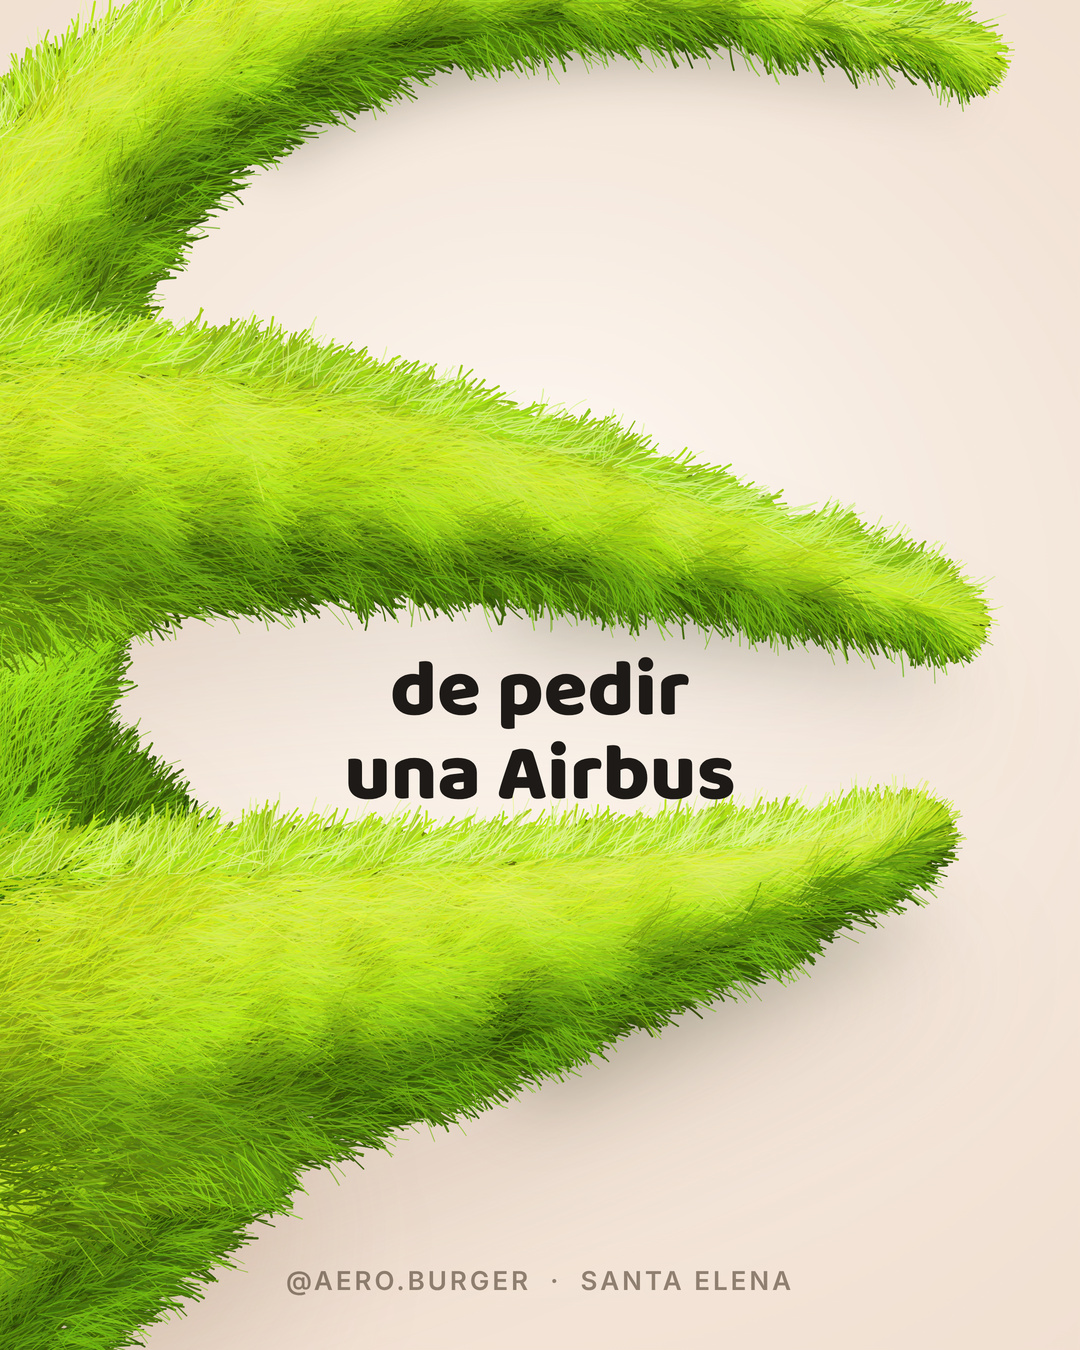
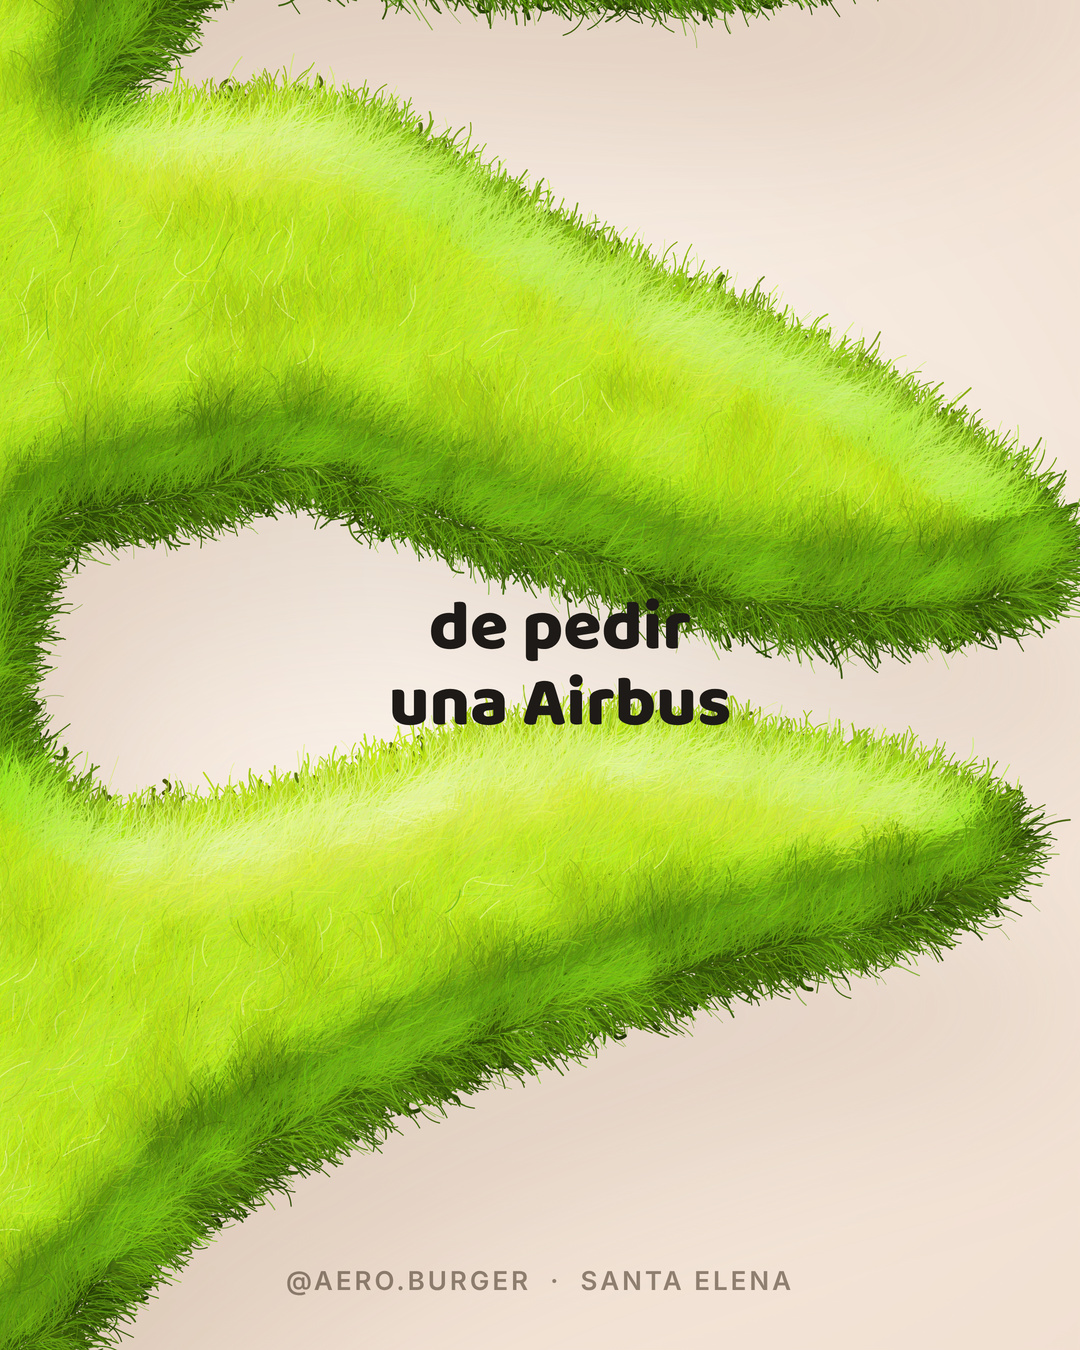
Estoy a esto: forma de la mano medida de la referencia (silueta), pelo y luz propios
Claude-Session: https://claude.ai/code/session_0158hRDxJUWYBKWghtQE4Xqy

diff --git a/aeroburger/12-estoy-a-esto/src/hand3.html b/aeroburger/12-estoy-a-esto/src/hand3.html
@@ -1,0 +1,117 @@
+<!doctype html>
+<html lang="es">
+<head>
+<meta charset="utf-8">
+<title>Aero Burger — Estoy a esto de pedir una Airbus (forma medida de la referencia)</title>
+<style>
+@font-face{font-family:'CaveatBrush';src:url('../assets/CaveatBrush.woff')}
+@font-face{font-family:'Baloo';src:url('../assets/Baloo2-800.woff');font-weight:800}
+html,body{margin:0;background:#F6EADF;overflow:hidden}canvas{display:block;width:1080px;height:1350px}
+</style>
+</head>
+<body>
+<canvas id="c"></canvas>
+<script>
+/* =========================================================================
+   «Estoy a esto de pedir una Airbus» · mano peluda con la FORMA medida de la referencia
+   Las siluetas (mano verde, puño blanco, manga roja) salen de src/measure_reference.py como mapas (máscara, normales,
+   flujo del pelo, espesor, borde difuso). El pelo, la luz y los colores son propios: 3 capas de trazos con luz de
+   arriba-izquierda, luz de borde (translucidez), mechones y sombras de contacto.
+   ?s=1 mano completa + «Estoy a esto» · ?s=2 acercamiento a los dedos · ?ss=2 supermuestreo · ?q=1 densidad
+   ========================================================================= */
+const W=1080, H=1350, OFFY=15, QS=new URLSearchParams(location.search);
+const SLIDE=QS.get('s')||'1', SS=parseFloat(QS.get('ss')||'2'), QUAL=parseFloat(QS.get('q')||'1');
+const Z = SLIDE==='2' ? {k:3.0, cx:650, cy:525} : {k:1, cx:540, cy:675};
+const BG='#F6EADF', RED='#C1121F', INK='#1d1a17';
+const canvas=document.getElementById('c'); canvas.width=W*SS; canvas.height=H*SS; const ctx=canvas.getContext('2d');
+function rng(seed){ let a=seed>>>0; return ()=>{ a|=0; a=a+0x6D2B79F5|0; let t=Math.imul(a^a>>>15,1|a); t=t+Math.imul(t^t>>>7,61|t)^t; return ((t^t>>>14)>>>0)/4294967296; }; }
+const R=rng(20261127), rnd=(a,b)=>a+(b-a)*R(), gauss=()=>{ let s=0; for(let i=0;i<4;i++) s+=R(); return (s-2)/0.577; };
+const lerp=(a,b,t)=>a+(b-a)*t, clamp=(x,a,b)=>Math.min(b,Math.max(a,x)), sstep=(a,b,x)=>{ const t=clamp((x-a)/(b-a),0,1); return t*t*(3-2*t); };
+const NZ=new Float32Array(1024); for(let i=0;i<1024;i++) NZ[i]=R()*2-1;
+function vnoise(x,y){ const xi=Math.floor(x), yi=Math.floor(y), xf=x-xi, yf=y-yi, h=(a,b)=>NZ[((a*73856093)^(b*19349663))&1023], sx=xf*xf*(3-2*xf), sy=yf*yf*(3-2*yf);
+  return lerp(lerp(h(xi,yi),h(xi+1,yi),sx),lerp(h(xi,yi+1),h(xi+1,yi+1),sx),sy); }
+const LV=(()=>{ const l=Math.hypot(-0.40,-0.62,0.68); return [-0.40/l,-0.62/l,0.68/l]; })();
+const DET=Math.min(Z.k,2.4);
+function visible(x,y,m=70){ return Math.abs(x-Z.cx)<540/Z.k+m && Math.abs(y-Z.cy)<675/Z.k+m; }
+
+// ---------- mapas de forma
+function loadMap(src){ return new Promise(res=>{ const im=new Image(); im.onload=()=>{ const c=document.createElement('canvas'); c.width=im.width; c.height=im.height; const x=c.getContext('2d'); x.drawImage(im,0,0); res({img:im,w:im.width,h:im.height,d:x.getImageData(0,0,im.width,im.height).data}); }; im.src=src; }); }
+function samp(m,x,y,ch){ const X=x, Y=y-OFFY; if(X<0||Y<0||X>=m.w-1||Y>=m.h-1) return 0; const x0=Math.floor(X), y0=Math.floor(Y), fx=X-x0, fy=Y-y0, i=(y0*m.w+x0)*4+ch, s=m.w*4;
+  return (m.d[i]*(1-fx)*(1-fy)+m.d[i+4]*fx*(1-fy)+m.d[i+s]*(1-fx)*fy+m.d[i+s+4]*fx*fy)/255; }
+async function loadPart(name){ const P={name}; for(const k of ['mask','fuzz','thick','nrm','flow']) P[k]=await loadMap(`../assets/${name}_${k}.png`);
+  let n=0,x0=1e9,y0=1e9,x1=-1,y1=-1; const m=P.mask; for(let y=0;y<m.h;y++) for(let x=0;x<m.w;x++) if(m.d[(y*m.w+x)*4]>127){ n++; if(x<x0)x0=x; if(x>x1)x1=x; if(y<y0)y0=y; if(y>y1)y1=y; }
+  const ac=document.createElement('canvas'); ac.width=m.w; ac.height=m.h; const ax=ac.getContext('2d'), id=ax.createImageData(m.w,m.h); for(let i=0;i<m.w*m.h;i++){ id.data[i*4]=id.data[i*4+1]=id.data[i*4+2]=255; id.data[i*4+3]=m.d[i*4]; } ax.putImageData(id,0,0); P.alpha=ac;   // máscara como canal alfa
+  P.area=n; P.bbox=[x0-14,y0+OFFY-14,x1+14,y1+OFFY+14]; return P; }
+
+// ---------- lotes de trazos (un solo stroke por cubeta de color)
+const batches=new Map();
+function q(layer,x,y,ang,len,wid,L,Hh,Sat,alpha,curve){
+  const Lq=Math.round(clamp(L,4,98)*0.6), Hq=Math.round(Hh/2), Sq=Math.round(Sat/6), Wq=Math.round(wid*5), Aq=Math.round(alpha*4); const key=layer+'|'+Lq+'|'+Hq+'|'+Sq+'|'+Wq+'|'+Aq;
+  let b=batches.get(key); if(!b){ b={style:`hsl(${Hq*2} ${Sq*6}% ${Lq/0.6}%)`,w:Wq/5,a:Aq/4,path:new Path2D()}; batches.set(key,b); }
+  const ca=Math.cos(ang), sa=Math.sin(ang); b.path.moveTo(x,y); b.path.quadraticCurveTo(x+ca*len*0.5-sa*curve,y+sa*len*0.5+ca*curve,x+ca*len,y+sa*len); }
+function flush(){ ctx.lineCap='round'; for(const b of batches.values()){ ctx.strokeStyle=b.style; ctx.lineWidth=b.w; ctx.globalAlpha=b.a; ctx.stroke(b.path); } ctx.globalAlpha=1; batches.clear(); }
+const oc=document.createElement('canvas'); oc.width=W; oc.height=H; const ox=oc.getContext('2d');
+function silhouette(P,col){ ox.globalCompositeOperation='source-over'; ox.clearRect(0,0,W,H); ox.fillStyle=col; ox.fillRect(0,0,W,H); ox.globalCompositeOperation='destination-in'; ox.drawImage(P.alpha,0,OFFY); ctx.drawImage(oc,0,0); }
+function shadow(P,dx,dy,blur,col){ ox.globalCompositeOperation='source-over'; ox.clearRect(0,0,W,H); ox.fillStyle=col; ox.fillRect(0,0,W,H); ox.globalCompositeOperation='destination-in'; ox.drawImage(P.alpha,0,OFFY);
+  ctx.save(); ctx.filter=`blur(${blur*SS*Z.k}px)`; ctx.drawImage(oc,dx,dy); ctx.restore(); }
+
+// ---------- pelo de una pieza
+const PAL={ green:{h0:86,h1:68,s:80,l0:16,l1:50,rim:12}, white:{h0:36,h1:34,s:16,l0:62,l1:97,rim:3}, red:{h0:355,h1:352,s:80,l0:19,l1:46,rim:8} };
+function angMix(a,b,t){ let d=Math.atan2(Math.sin(b-a),Math.cos(b-a)); return a+d*t; }
+function furPart(P,dens,cols,o={}){
+  const pal=PAL[cols], lm=o.lenMul||1, layers=[['u',0.20,[2.4,3.4],[9,15],0.88],['m',0.80,[0.8,1.4],[15,27],1],['h',0.22,[0.5,0.85],[19,34],0.8]];
+  const [bx0,by0,bx1,by1]=P.bbox;
+  for(const [name,d,wr,lr,alpha] of layers){
+    const N=Math.round(dens*d*P.area*DET*DET*QUAL); let made=0, tries=0;
+    while(made<N && tries<N*6){ tries++;
+      const x=rnd(bx0,bx1), y=rnd(by0,by1); if(!visible(x,y)) continue;
+      const fz=samp(P.fuzz,x,y,0); if(R()>Math.pow(fz,1.5)) continue; made++;
+      const mk=samp(P.mask,x,y,0), nx=samp(P.nrm,x,y,0)*2-1, ny=samp(P.nrm,x,y,1)*2-1, nz=samp(P.nrm,x,y,2)*2-1;
+      const fxv=samp(P.flow,x,y,0)*2-1, fyv=samp(P.flow,x,y,1)*2-1, T=samp(P.thick,x,y,0);
+      const cl=vnoise(x/15,y/15), cl2=vnoise(x/6+40,y/6);
+      let ang=Math.atan2(fyv,fxv)+gauss()*0.38+cl*0.6;
+      if(mk<0.8) ang=angMix(ang,Math.atan2(ny,nx)+gauss()*0.3,(0.8-mk)*0.95);           // en el borde el pelo sale hacia afuera
+      const diff=clamp(nx*LV[0]+ny*LV[1]+nz*LV[2],0,1)*0.88+0.12, ao=(o.ao??0.22)*(1-sstep(0.22,0.75,T));
+      const len=rnd(lr[0],lr[1])*lm/DET, wid=rnd(wr[0],wr[1])/DET;
+      let L=lerp(pal.l0,pal.l1,diff*(1-ao))+cl*4+cl2*1.8+gauss()*2.2;
+      if(o.fold) L*=o.fold(x,y);
+      if(name==='u') L=lerp(pal.l0*0.8,pal.l1*0.45,diff)*(1-ao*0.9)+cl*1.5;
+      if(name==='h') L+=10+pal.rim*Math.pow(1-nz,2)*(nx*LV[0]+ny*LV[1]>0?1.4:0.5);
+      L+=pal.rim*Math.pow(1-nz,2.4)*(nx*LV[0]+ny*LV[1]>0?1:0.25);
+      q(name,x,y,ang,len,wid,L,lerp(pal.h0,pal.h1,diff)+gauss()*2,pal.s+gauss()*4,alpha,gauss()*6/DET);
+    }
+    if(name!=='h') flush();
+  }
+  flush();
+}
+
+// ---------- textos
+function handText(str,x,y,size,col,rot=0){ ctx.save(); ctx.translate(x,y); ctx.rotate(rot); ctx.font=`${size}px CaveatBrush`; ctx.textAlign='center'; ctx.fillStyle=col; ctx.fillText(str,0,0); ctx.restore(); }
+function arrow(){ ctx.save(); ctx.strokeStyle=RED; ctx.lineWidth=6.5; ctx.lineCap='round'; ctx.lineJoin='round';
+  ctx.beginPath(); ctx.moveTo(838,757); ctx.bezierCurveTo(884,721,872,661,818,623); ctx.stroke();
+  ctx.beginPath(); ctx.moveTo(822,665); ctx.lineTo(814,619); ctx.lineTo(858,637); ctx.stroke();
+  for(const [a,b,c,d] of [[430,812,460,830],[436,862,468,872],[1008,764,1030,736],[1034,796,1066,788]]){ ctx.beginPath(); ctx.moveTo(a,b); ctx.lineTo(c,d); ctx.stroke(); } ctx.restore(); }
+
+async function draw(){
+  await Promise.all([document.fonts.load('80px CaveatBrush'),document.fonts.load('800 80px Baloo')]);
+  const [hand,cuff,sleeve]=await Promise.all([loadPart('hand'),loadPart('cuff'),loadPart('sleeve')]);
+  ctx.setTransform(SS,0,0,SS,0,0); ctx.fillStyle=BG; ctx.fillRect(0,0,W,H);
+  const vg=ctx.createRadialGradient(540,560,160,540,675,1050); vg.addColorStop(0,'rgba(255,250,244,.65)'); vg.addColorStop(1,'rgba(226,198,176,.30)'); ctx.fillStyle=vg; ctx.fillRect(0,0,W,H);
+  ctx.save(); ctx.translate(540-Z.cx*Z.k,675-Z.cy*Z.k); ctx.scale(Z.k,Z.k);
+  shadow(hand,26,50,28,'rgba(120,80,50,.15)'); shadow(cuff,18,34,24,'rgba(120,80,50,.12)');
+  silhouette(sleeve,'#6d0610');   // base oscura de la manga
+  furPart(sleeve,0.55,'red',{fold:(x,y)=>0.55+0.45*(0.5+0.5*Math.sin((x*0.9-y*0.35)/38)),lenMul:0.9});
+  shadow(cuff,10,18,14,'rgba(40,0,6,.5)');
+  furPart(hand,0.64,'green');
+  shadow(cuff,8,14,14,'rgba(35,52,0,.42)');
+  furPart(cuff,0.62,'white',{lenMul:1.25,ao:0.14});
+  if(SLIDE==='1'){ arrow(); handText('Estoy a esto',770,851,122,RED,-0.03);
+    ctx.save(); ctx.fillStyle=INK; ctx.font='800 17px Baloo'; ctx.textAlign='center'; ctx.fillText('de pedir una',664,531); ctx.fillText('Airbus',664,548); ctx.restore(); ctx.restore();
+  } else { ctx.restore(); ctx.save(); ctx.setTransform(SS,0,0,SS,0,0); ctx.fillStyle=INK; ctx.font='800 70px Baloo'; ctx.textAlign='center'; ctx.fillText('de pedir',560,648); ctx.fillText('una Airbus',560,724);
+    ctx.font='600 26px Inter'; ctx.fillStyle='rgba(60,45,30,.55)'; ctx.letterSpacing='3px'; ctx.fillText('@AERO.BURGER  ·  SANTA ELENA',540,1290); ctx.restore(); }
+  return true;
+}
+window.ready=draw();
+</script>
+</body>
+</html>

diff --git a/aeroburger/12-estoy-a-esto/src/measure_reference.py b/aeroburger/12-estoy-a-esto/src/measure_reference.py
@@ -1,0 +1,52 @@
+"""Mide la FORMA de la referencia (captura de la lámina 1) y exporta, por pieza (mano verde, puño blanco, manga roja),
+mapas para el render: máscara, normales (de la máscara suavizada), flujo del pelo (a lo largo de los dedos), espesor y borde difuso.
+Solo se usa la silueta; el pelo, la luz y los colores los pinta hand3.html.   Uso: python measure_reference.py captura.jpg"""
+import sys, numpy as np
+from PIL import Image, ImageFilter
+Y0, Y1 = 285, 1605
+a = np.asarray(Image.open(sys.argv[1]).convert('RGB')).astype(np.float32)[Y0:Y1]; H, W, _ = a.shape
+r, g, b = a[..., 0], a[..., 1], a[..., 2]; mx = a.max(2); sat = (mx - a.min(2)) / (mx + 1e-6)
+def blur(arr, s):
+    im = Image.fromarray((np.clip(arr, 0, 1) * 255).astype(np.uint8)); return np.asarray(im.filter(ImageFilter.GaussianBlur(s))).astype(np.float32) / 255
+def largest(mask):
+    lab = np.zeros(mask.shape, np.int32); n = 0; sizes = {}
+    for y0 in range(H):
+        for x0 in range(W):
+            if mask[y0, x0] and lab[y0, x0] == 0:
+                n += 1; st = [(y0, x0)]; lab[y0, x0] = n; c = 0
+                while st:
+                    y, x = st.pop(); c += 1
+                    for dy, dx in ((1,0),(-1,0),(0,1),(0,-1)):
+                        yy, xx = y + dy, x + dx
+                        if 0 <= yy < H and 0 <= xx < W and mask[yy, xx] and lab[yy, xx] == 0: lab[yy, xx] = n; st.append((yy, xx))
+                sizes[n] = c
+    return lab == max(sizes, key=sizes.get)
+def close(m, s=4): return blur((blur(m.astype(np.float32), s) > 0.3).astype(np.float32), s) > 0.5
+green = (g > r * 0.92) & (g > b * 1.5) & (sat > 0.38) & (mx > 55)
+hand = close(largest(green), 5)
+red = (r > 95) & (g < 90) & (b < 90) & (r > g * 1.8); sleeve = largest(close(red, 6))
+bgc = np.array([241, 227, 219.]); d = np.sqrt(((a - bgc) ** 2).sum(2))
+box = np.zeros((H, W), bool); box[520:1320, 0:530] = True
+cuff = close(((d > 12) & box & ~(blur(green.astype(np.float32), 5) > 0.05)).astype(np.float32), 10) & ~sleeve
+cuff = largest(cuff)
+def export(name, m, default_dir, use_tangent):
+    m = blur(m.astype(np.float32), 2.0); m = np.clip((m - 0.5) * 6 + 0.5, 0, 1)
+    Image.fromarray((m * 255).astype(np.uint8)).save(f'assets/{name}_mask.png')
+    Image.fromarray((blur(m, 6) * 255).astype(np.uint8)).save(f'assets/{name}_fuzz.png')
+    Image.fromarray((blur(m, 9) * 255).astype(np.uint8)).save(f'assets/{name}_thick.png')
+    h = blur(m, 13); gy, gx = np.gradient(h); k = 55.0
+    nx, ny = -gx * k, -gy * k; nz = np.sqrt(np.clip(1 - nx**2 - ny**2, 0.05, 1)); L = np.sqrt(nx**2 + ny**2 + nz**2)
+    Image.fromarray((np.stack([nx / L, ny / L, nz / L], -1) * .5 + .5).clip(0, 1).__mul__(255).astype(np.uint8)).save(f'assets/{name}_nrm.png')
+    h2 = blur(m, 5); gy2, gx2 = np.gradient(h2); mag = np.hypot(gx2, gy2); tx, ty = -gy2, gx2; l = np.hypot(tx, ty) + 1e-9; tx, ty = tx / l, ty / l
+    flip = (tx * 0.8 + ty * -0.6) < 0; tx = np.where(flip, -tx, tx); ty = np.where(flip, -ty, ty)
+    conf = np.clip((mag - 0.004) / 0.014, 0, 1) * m * (1 if use_tangent else 0)
+    fx = tx * conf + default_dir[0] * (1 - conf); fy = ty * conf + default_dir[1] * (1 - conf)
+    for _ in range(3): fx = blur(fx * .5 + .5, 6) * 2 - 1; fy = blur(fy * .5 + .5, 6) * 2 - 1
+    l = np.hypot(fx, fy) + 1e-9; fx, fy = fx / l, fy / l
+    Image.fromarray((np.stack([fx * .5 + .5, fy * .5 + .5, conf], -1) * 255).astype(np.uint8)).save(f'assets/{name}_flow.png')
+    ys, xs = np.where(m > .5); print(name, 'caja', xs.min(), ys.min(), xs.max(), ys.max(), 'área', int((m > .5).sum()))
+export('hand', hand | (blur(cuff.astype(np.float32), 8) > .5) & (blur(hand.astype(np.float32), 14) > .35), (0.35, -0.94), True)
+export('cuff', blur(cuff.astype(np.float32), 5) > .4, (0.62, -0.78), False)
+export('sleeve', sleeve, (0.7, -0.7), False)
+vis = np.zeros((H, W, 3), np.uint8); vis[...] = (246, 234, 223); vis[sleeve] = (190, 15, 25); vis[cuff] = (235, 235, 235); vis[hand] = (110, 160, 30)
+Image.fromarray(vis).resize((W // 2, H // 2)).save('out/mask_check.png')

diff --git a/aeroburger/12-estoy-a-esto/README.md b/aeroburger/12-estoy-a-esto/README.md
@@ -3,6 +3,7 @@
 Carrusel de 2 imágenes 1080×1350 (4:5). Chiste del formato «Estoy a esto» (mano en pinza): lámina 1 = mano completa con «Estoy a esto» y flecha a la pinza (con el remate diminuto dentro);
 lámina 2 = acercamiento a los dedos con «de pedir una Airbus».
 
-La mano es una ilustración original (pelo procedural con semilla fija, puño blanco y manga roja de Santa), no la imagen de la referencia.
-Motor actual: `src/hand2.html` (pelo en 3 capas con luz por forma, proporciones esbeltas tomadas de la pose de la referencia; `src/hand.html` es la primera versión, más plana).
-Render: `HAND=hand2.html SS=2 SCALE=2 node src/render.js 1,2` y reducir a 1080×1350 (ver `out/`). Fuentes (OFL): Caveat Brush y Baloo 2 (`assets/`).
+**Forma:** medida de la silueta de la referencia (captura de pantalla) con `src/measure_reference.py` (mano verde, puño blanco, manga roja → mapas de máscara, normales, flujo y espesor en `assets/`).
+**Pelo, luz y colores:** propios (`src/hand3.html`): 3 capas de trazos con luz de arriba-izquierda, luz de borde, mechones y sombras de contacto. No se usa ningún píxel de la referencia.
+Render: `HAND=hand3.html SS=2 SCALE=2 node src/render.js 1,2` y reducir a 1080×1350 (ver `out/`). Fuentes (OFL): Caveat Brush y Baloo 2.
+Versiones anteriores (formas aproximadas): `src/hand.html`, `src/hand2.html`.
